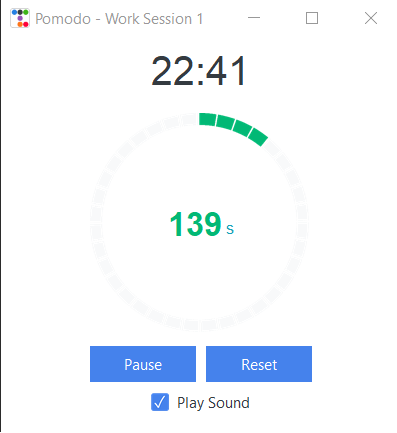
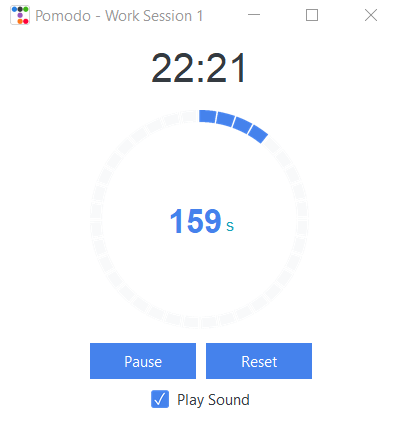
Updated Work Session screenshot

diff --git a/pomodo.py b/pomodo.py
@@ -90,7 +90,7 @@ class Pomodo:
                 self.meter.configure(amountused=used, amounttotal=total)
             else:
                 self.end_session()
-        self.root.after(1000, self.tick)
+        self.root.after(10, self.tick)
 
     def end_session(self):
         if self.play_sound_var.get():
